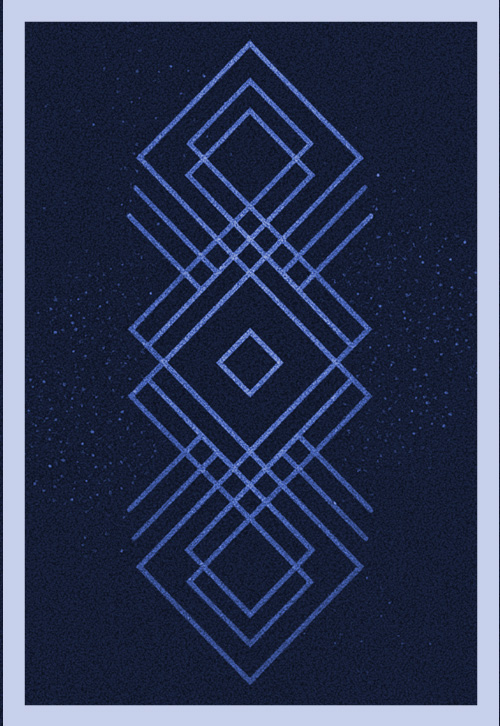
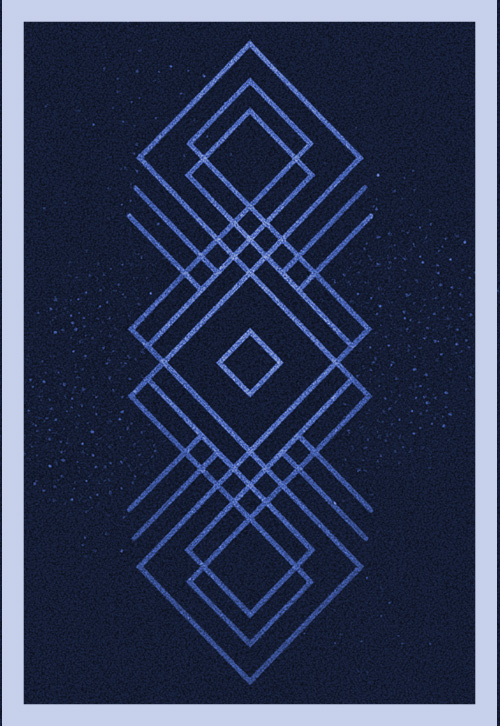
updated graphics

Changed region(s): [[0.99, 0.0, 1.0, 1.0], [0.93, 0.0303, 0.96, 0.9697], [0.03, 0.0303, 0.06, 0.9697]]

diff --git a/js/statsGraph.js b/js/statsGraph.js
@@ -68,7 +68,7 @@ export function renderStatsGraph(container, { averageScore = 0, winPercent = 0 }
         <div class="infograph-container">
             <div class="wedge">${createWedgeSVG(topAngle)}</div>
             <div class="wedge">${createWedgeSVG(bottomAngle, { clockwise: false, fill: 'red' })}</div>
-            <img src="images/circleGraphic.png" alt="game statistics graphic" class="graphic">
+            <img src="images/circleGraphic2.png" alt="game statistics graphic" class="graphic">
 
             <div class="wedge">
                 <svg width="100%" height="100%" viewBox="0 0 100 100">

diff --git a/index.html b/index.html
@@ -14,7 +14,7 @@
     <link href="https://fonts.googleapis.com/css2?family=Jomhuria&family=PT+Sans+Narrow:wght@400;700&display=swap" rel="stylesheet">
     
     <!-- My Styles -->
-    <link rel="stylesheet" href="styles.css?v=4.0">
+    <link rel="stylesheet" href="styles.css?v=5.0">
 
     <script src="gsap/gsap.min.js" defer></script>
     <script type="module" src="js/main.js"></script>

diff --git a/styles.css b/styles.css
@@ -337,7 +337,7 @@ h1 span:last-of-type {
     aspect-ratio: 500 / 726;
     border: 1px solid #666;
     border-radius: 5px;
-    background-image: url(images/cardback.jpg);
+    background-image: url(images/cardback2.jpg);
     background-size: cover;
     background-repeat: no-repeat;
     place-self: center;
